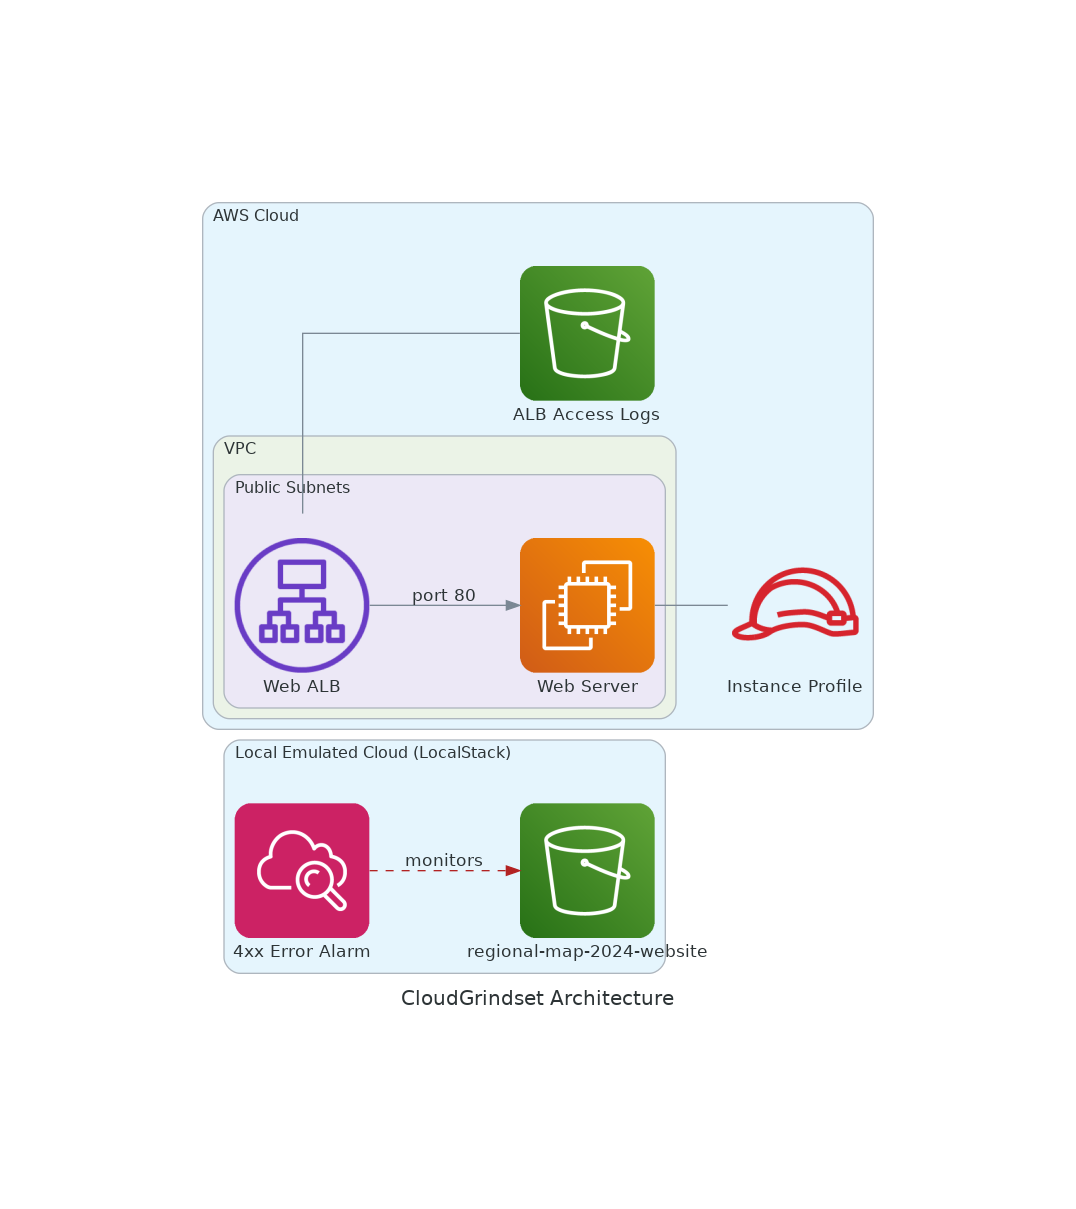
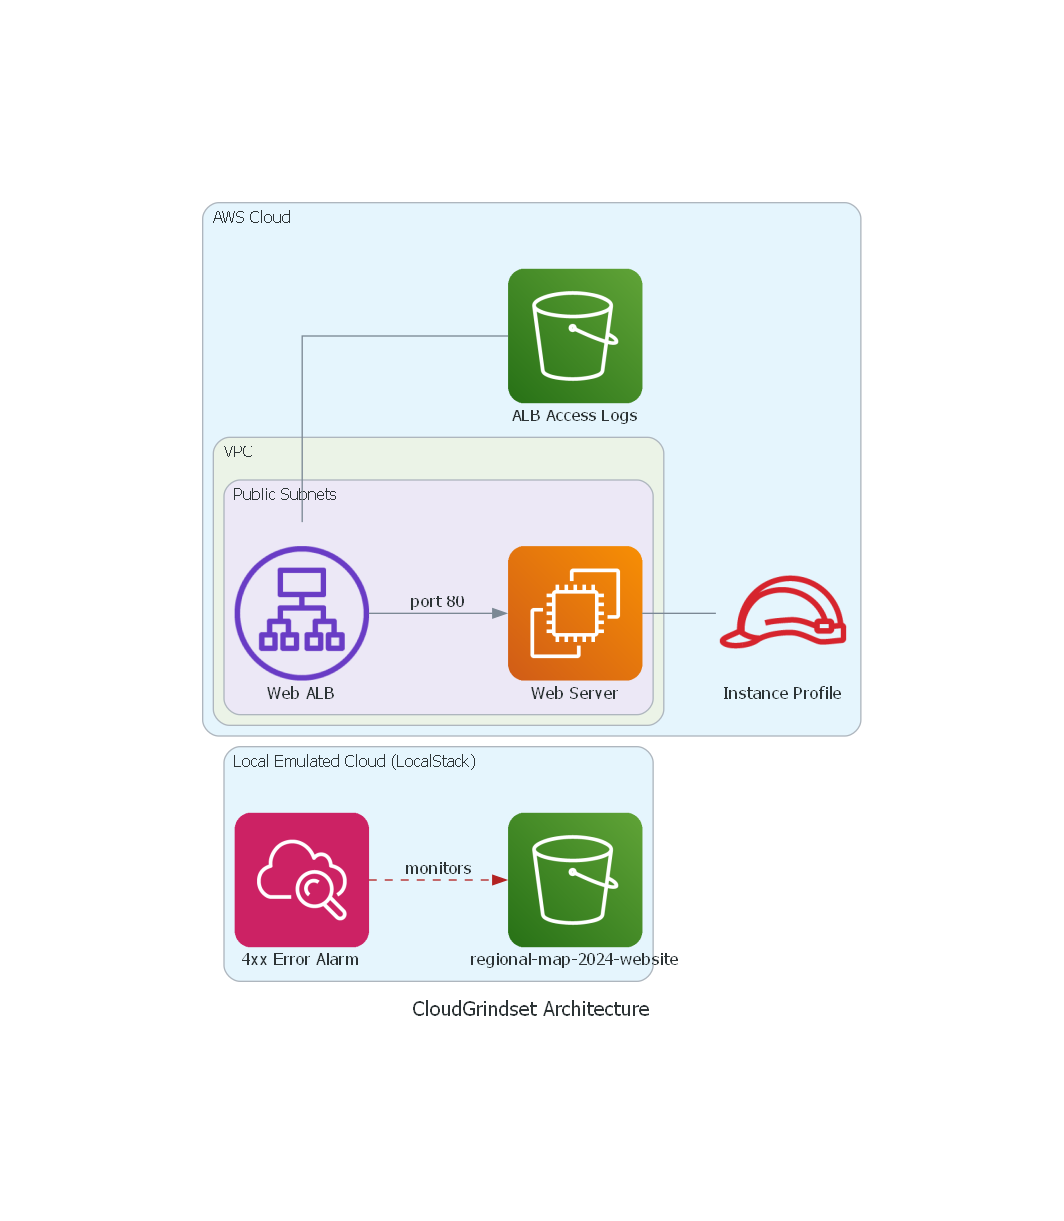
added a route 53 DNS setup for this repo

Changed region(s): [[0.1861, 0.2142, 0.6513, 0.8569], [0.6823, 0.1836, 0.8374, 0.5815], [0.1861, 0.153, 0.2791, 0.1836]]

diff --git a/iac/dns.py b/iac/dns.py
@@ -1,0 +1,70 @@
+"""
+Route 53 style DNS template for LocalStack deployment.
+
+"""
+
+from troposphere import Template, Ref, ImportValue, Output, Export
+from troposphere.route53 import (
+    HostedZone, 
+    HostedZoneVPCs, 
+    HostedZoneConfiguration,
+    RecordSet, 
+    RecordSetGroup
+)
+
+t = Template()
+t.set_description("DNS for CloudGrindset2026 - Route 53")
+
+# The internal domain
+DOMAIN_NAME = "grindset.local"
+
+# 1. Create the Private Hosted Zone
+hosted_zone = t.add_resource(
+    HostedZone(
+        "InternalHostedZone",
+        Name=DOMAIN_NAME,
+        VPCs=[
+            HostedZoneVPCs(
+                VPCId=ImportValue("GrindsetVPC-ID"),
+                VPCRegion="us-east-1"
+            )
+        ],
+        HostedZoneConfig=HostedZoneConfiguration(
+            Comment="DNS (Route53) for the CloudGrindset2026 repo"
+        )
+    )
+)
+
+# 2. Add an A-Record (standard practice)
+a_record = t.add_resource(
+    RecordSetGroup(
+        "DnsRecords",
+        HostedZoneId=Ref(hosted_zone),
+        RecordSets=[
+            RecordSet(
+                Name=f"map.{DOMAIN_NAME}.",
+                Type="A",
+                TTL="300",
+                ResourceRecords=["10.0.1.10"]
+            ),
+            RecordSet(
+                Name=f"api.{DOMAIN_NAME}.",
+                Type="CNAME",
+                TTL="300",
+                ResourceRecords=[f"map.{DOMAIN_NAME}."]
+            )
+        ]
+    )
+)
+
+# Outputs
+t.add_output([
+    Output(
+        "HostedZoneId",
+        Value=Ref(hosted_zone),
+        Description="The ID of the Private Hosted Zone",
+        Export=Export("GrindsetHostedZone-ID")
+    )
+])
+
+print(t.to_yaml())
